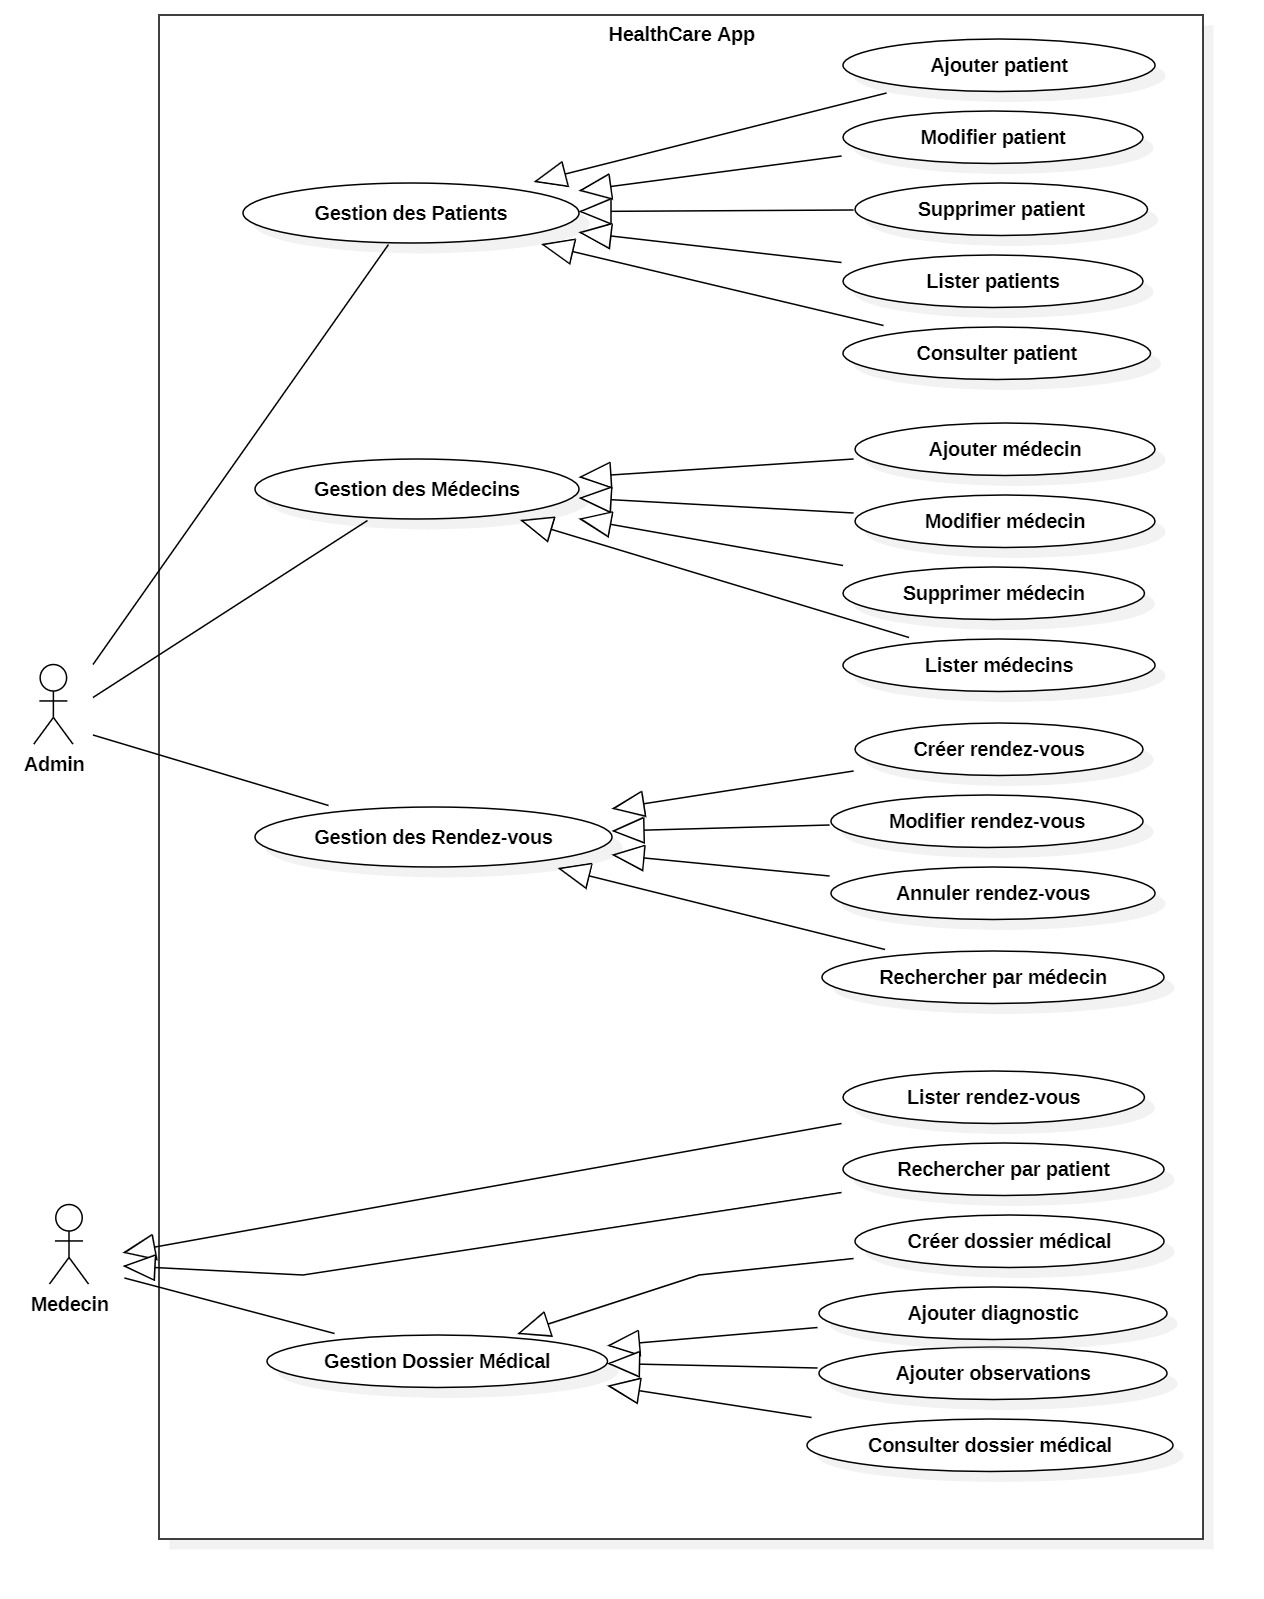
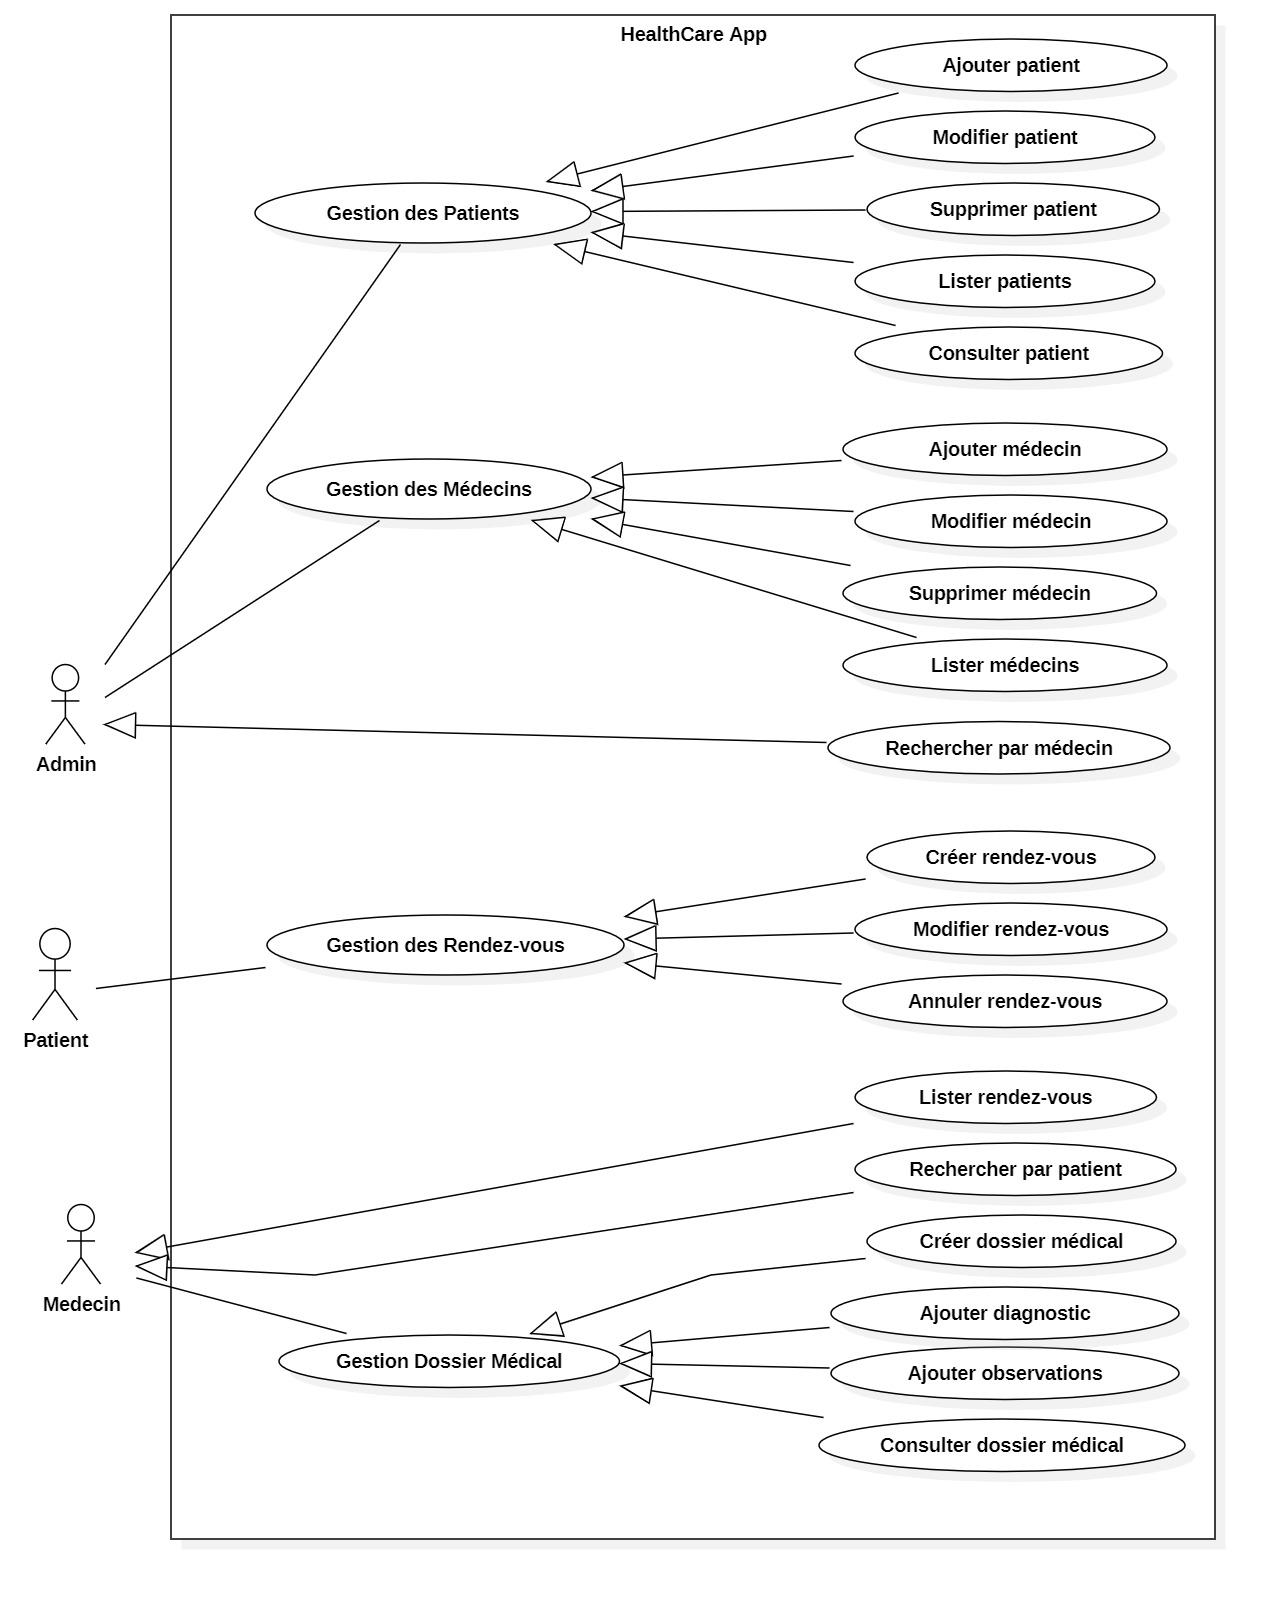
docs: add README.md

diff --git a/README.md b/README.md
@@ -1,0 +1,69 @@
+# HealthCare+ 
+> API REST de gestion médicale développée avec Spring Boot
+
+
+## Description
+HealthCare+ est une application backend permettant de gérer les patients, les médecins, les rendez-vous et les dossiers médicaux d'un système de santé.
+
+
+## Technologies utilisées
+- **Java 17**
+- **Spring Boot**
+- **Spring Data JPA / Hibernate**
+- **Flyway** (migrations BDD)
+- **MySQL**
+- **MapStruct** (DTO Mapper)
+- **Swagger / OpenAPI** (documentation)
+- **JUnit** (tests)
+- **Docker**
+- **Maven**
+
+
+## Fonctionnalités
+| Module          | Opérations |
+|-----------------|-----------|
+| Patient         | Ajouter, Modifier, Supprimer, Lister, Consulter |
+| Médecin         | Ajouter, Modifier, Supprimer, Lister |
+| Rendez-vous     | Créer, Modifier, Annuler, Lister, Rechercher par patient/médecin |
+| Dossier Médical | Créer, Ajouter diagnostic, Ajouter observations, Consulter |
+
+
+## Structure du projet
+```
+src/
+├── main/
+│   ├── java/com/healthcare/
+│   │   ├── controller/
+│   │   ├── dto/
+│   │   ├── entity/
+│   │   ├── exception/
+│   │   ├── mapper/
+│   │   └── repository/
+│   │   └── service/
+│   └── resources/
+│       ├── application.properties
+│       └── db/migration/
+└── test/
+```
+## Diagrammes UML
+
+### ==> Diagramme de Classe
+![diagramme_de_classe](uml/diagramme_de_classe.jpg)
+
+### ==> Diagramme de cas d'utilisation
+![UseCaseDiagram.jpg](uml/UseCaseDiagram.jpg)
+
+### ==>Diagrammes de séquence
+### Ajouter Patient
+![AjouterPatient](uml/AjouterPatient.jpg)
+
+### Consulter Patient
+![ConsulterPatient](uml/ConsulterPatient.jpg)
+
+### Créer Rendez-vous
+![CreerRendezVous](uml/CreerRendezVous.jpg)
+
+
+
+## Auteur
+**Amal BASBAS** : Projet réalisé dans le cadre de la formation Développeuse  Web et Web Mobile
